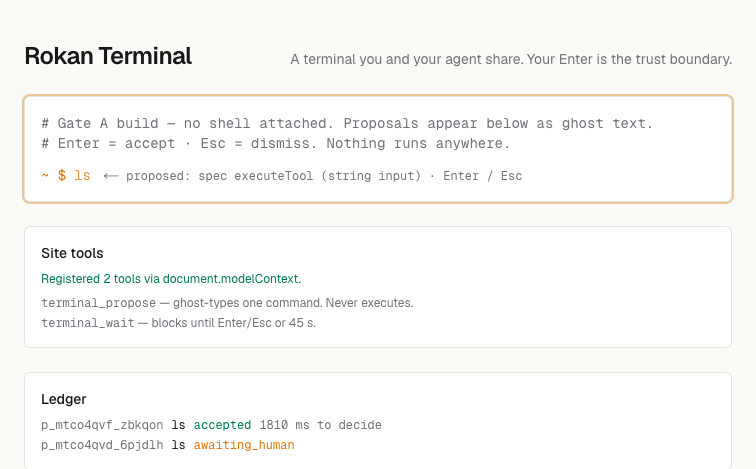
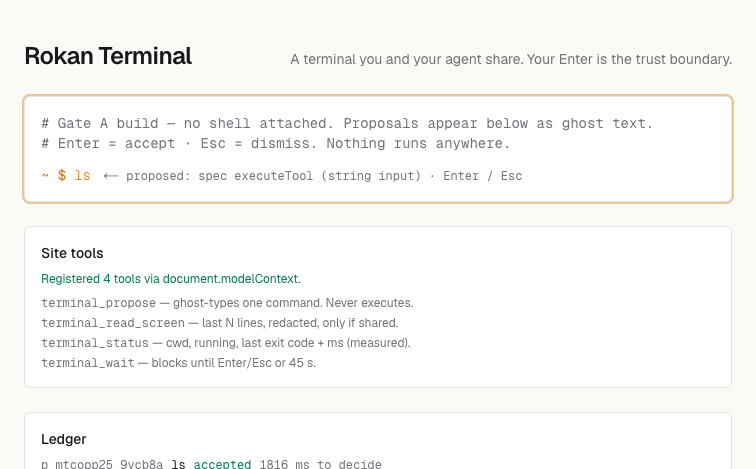
docs: progress + evidence for four tools

diff --git a/docs/PROGRESS.md b/docs/PROGRESS.md
@@ -1,6 +1,6 @@
 # PROGRESS — verified state (update before you stop; Aarya's Claude reads this, not chat)
 
-Last update: **2026-08-28 01:30 PT** by C (Arav's Claude). Branch `main`, all pushed.
+Last update: **2026-08-28 01:50 PT** by C (Arav's Claude). Branch `main`, all pushed.
 
 ## Gates
 
@@ -19,7 +19,10 @@ Last update: **2026-08-28 01:30 PT** by C (Arav's Claude). Branch `main`, all pu
 - Chrome 152 + `--enable-features=WebMCP`: `toolsAdded` fires per registration; CDP `WebMCP.invokeTool` → ghost text on the prompt → Enter → `terminal_wait` returns `executed` (705 ms) → ledger row with measured decision latency. ESC / bidi-override injections rejected with reasons (T2.2 half green).
 - Quick tunnel passes WebSocket upgrades: open 197 ms, echo 216 ms. PLAN §10 risk #2 closed.
 - **`packages/bridge` green (commit `7a3f88c`)**: `node bin/rokan-terminal.js` → node-pty zsh + ws on 127.0.0.1 + 128-bit token (first-frame auth, timing-safe) + one tab at a time (second gets `busy`) + cloudflared quick tunnel + DNS-over-HTTPS wait + one pairing link. zsh shell integration (OSC 133 / OSC 7 / private OSC 7331) gives **honest** `running / last_exit_code / last_command_ms / last_command / cwd`. `~/.rokan-terminal/ledger.jsonl` rows are HMAC-chained per session; `verifyLedger()` detects tampering. Real-PTY smoke `pnpm smoke`: **14/14 in 331 ms**. Through a real tunnel: hello 367 ms, status 411 ms.
-- Shared contracts: `schemas.ts` v0 (`terminal_propose` + `validateProposedCommand`) and **`apps/web/src/lib/ws/protocol.ts` v1** (commit `647486d`, frames + `parsePairingHash`). Both under `contract:`.
+- **All four `terminal_*` tools registered and invoked in Chrome 152** (`register.ts`): `terminal_propose` · `terminal_read_screen` (Share-screen gate → `{shared:false}` when OFF, `redactForAgent()` choke point, 1.5 K output budget with `truncated`) · `terminal_status` (honest fields from bridge `status` frames, `measured:true` only with shell integration) · `terminal_wait` (45 s, `still_waiting`, tail through the same redaction + gate). Evidence appended to `docs/evidence/gate-a/2026-08-28-chrome152-cdp.log`.
+- `redact.ts` (every PLAN §4 pattern + PEM blocks + ANSI strip; 12 tests) and client `ledger.ts` (append-only, WebCrypto HMAC chain, localStorage mirror, forward-to-bridge hook, `verifyExport`; 2 tests). `pnpm test` in `apps/web` = 14/14.
+- Shared contracts under `contract:`: `schemas.ts` v1 (all four fixed tools, `validateProposedCommand`, `DANGEROUS_PATTERNS`/`isDangerous`, `OUTPUT_BUDGET_CHARS`) and `apps/web/src/lib/ws/protocol.ts` v1 (frames + `parsePairingHash`).
+- **Seam for Aarya's terminal UI: `apps/web/src/lib/webmcp/adapter.ts`.** Implement `TerminalAdapter` (`shareScreen`, `screenLines(n)` from the xterm buffer, `status()` from the latest `status` frame, `ghostType`, `waitProposal` with `exit_code/ms/tail` after Enter) and call `setTerminalAdapter(...)` once — the tools need no other change. Until then `gateAAdapter` keeps everything working with no shell.
 
 ## Blocked on Arav (do these first — Gate A deadline Fri 23:59 PT)
 
